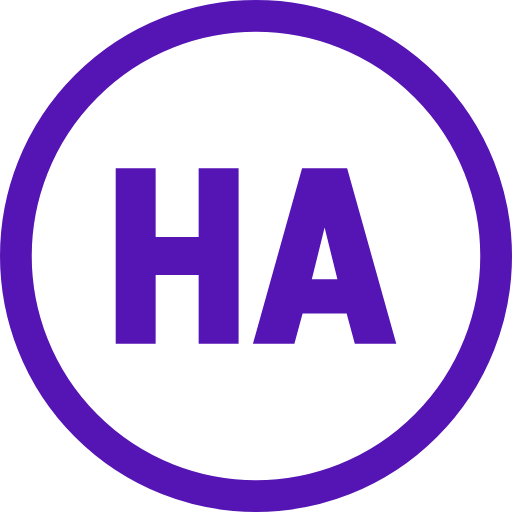
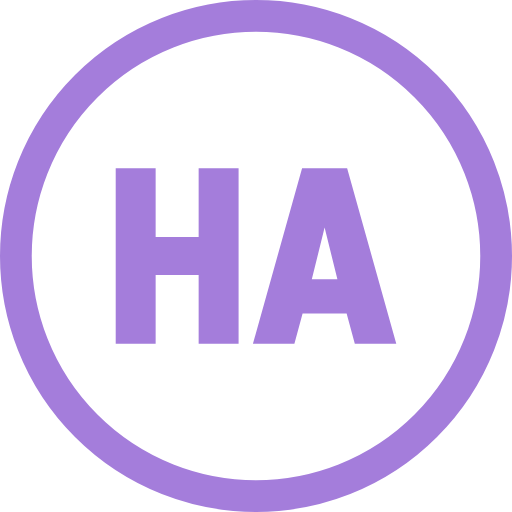
Add Horizon Advertising email signature with lavender HA roundel
Claude-Session: https://claude.ai/code/session_01MUnwnrXqHazbNMzGevKJpz

diff --git a/brand/email-signature/horizon-advertising.html b/brand/email-signature/horizon-advertising.html
@@ -1,0 +1,44 @@
+<!DOCTYPE html>
+<html lang="en">
+<head>
+<meta charset="utf-8">
+<title>Horizon Advertising email signature</title>
+</head>
+<body style="margin:0;padding:24px;background:#ffffff;">
+<!-- Horizon Advertising email signature. Open in a browser, select everything (Ctrl/Cmd+A), copy, and paste into your mail client's signature settings. -->
+<table cellpadding="0" cellspacing="0" border="0" role="presentation" style="border-collapse:collapse;font-family:Arial,Helvetica,sans-serif;color:#1A1A1A;max-width:560px;">
+  <tr>
+    <td valign="middle" style="padding:0 20px 0 0;width:200px;border-right:2px solid #A47DDB;">
+      <a href="https://horizonadvertising.co.uk" style="text-decoration:none;"><img src="http://217.154.34.205/brand/horizon-advertising-email-logo.png" width="200" height="100" alt="Horizon Advertising" style="display:block;border:0;width:200px;height:100px;"></a>
+    </td>
+    <td valign="middle" style="padding:0 0 0 20px;">
+      <p style="margin:0;font-size:17px;line-height:22px;font-weight:bold;color:#1A1A1A;">Charlie Livsey</p>
+      <p style="margin:4px 0 10px;font-size:12px;line-height:18px;">
+        <span style="color:#A47DDB;font-weight:bold;">Executive Director</span> &nbsp;<span style="color:#4A4A4A;">Horizon Advertising Limited</span>
+      </p>
+      <p style="margin:0;font-size:12px;line-height:19px;color:#4A4A4A;">
+        <span style="color:#1A1A1A;font-weight:bold;">E</span>&nbsp; <a href="mailto:charlie.livsey@horizonadvertising.co.uk" style="color:#4A4A4A;text-decoration:none;">charlie.livsey@horizonadvertising.co.uk</a><br>
+        <span style="color:#1A1A1A;font-weight:bold;">W</span>&nbsp; <a href="https://horizonadvertising.co.uk" style="color:#4A4A4A;text-decoration:none;">horizonadvertising.co.uk</a>
+      </p>
+    </td>
+  </tr>
+  <tr>
+    <td colspan="2" style="padding:14px 0 0;">
+      <table cellpadding="0" cellspacing="0" border="0" role="presentation" width="100%" style="border-collapse:collapse;">
+        <tr><td height="3" bgcolor="#A47DDB" style="font-size:0;line-height:0;">&nbsp;</td></tr>
+      </table>
+    </td>
+  </tr>
+  <tr>
+    <td colspan="2" style="padding:10px 0 0;font-size:11px;line-height:18px;color:#1A1A1A;">
+      A <strong>HN Group</strong> company
+    </td>
+  </tr>
+  <tr>
+    <td colspan="2" style="padding:12px 0 0;font-size:10px;line-height:14px;color:#9A9A9A;">
+      This email and any attachments are confidential and intended only for the named recipient. If you have received it in error, please tell the sender and delete it. Horizon Advertising is a subsidiary of HN Group Limited.
+    </td>
+  </tr>
+</table>
+</body>
+</html>

diff --git a/brand/tools/generate.py b/brand/tools/generate.py
@@ -17,6 +17,7 @@ FONT_BOLD = "/usr/share/fonts/truetype/liberation/LiberationSans-Bold.ttf"
 INDIGO = "#5514B4"
 WHITE = "#FFFFFF"
 INK = "#1A1A1A"
+LAVENDER = "#A47DDB"  # Horizon Advertising
 
 # --- Roundel (100 x 100 box), proportions taken from the BT roundel -------------
 RING = 6.2                # ring thickness, ~6% of the diameter
@@ -41,11 +42,11 @@ GLYPHS = {
 }
 
 ROUNDEL_BRANDS = {
-    # slug: (initials, line 1, line 2)
-    "horizon-advertising": ("HA", "Horizon", "Advertising"),
-    "horizon-development": ("HD", "Horizon", "Development"),
-    "horizon-media-group": ("HM", "Horizon", "Media Group"),
-    "horizon-holding-co":  ("HH", "Horizon", "Holding Co"),
+    # slug: (initials, line 1, line 2, colour)
+    "horizon-advertising": ("HA", "Horizon", "Advertising", LAVENDER),
+    "horizon-development": ("HD", "Horizon", "Development", INDIGO),
+    "horizon-media-group": ("HM", "Horizon", "Media Group", INDIGO),
+    "horizon-holding-co":  ("HH", "Horizon", "Holding Co", INDIGO),
 }
 
 # --- Wordmarks with the stepped colour line -------------------------------------
@@ -146,12 +147,12 @@ def main():
             for ink, suffix in ((INK, ""), (WHITE, "-white")):
                 w, h, body = wordmark(lines, ink)
                 files[f"{slug}-{name}{suffix}.svg"] = svg(w, h, body, title)
-    for slug, (ini, l1, l2) in ROUNDEL_BRANDS.items():
+    for slug, (ini, l1, l2, color) in ROUNDEL_BRANDS.items():
         title = f"{l1} {l2}"
-        files[f"{slug}-roundel.svg"] = svg(100, 100, roundel(ini, INDIGO), title)
+        files[f"{slug}-roundel.svg"] = svg(100, 100, roundel(ini, color), title)
         files[f"{slug}-roundel-white.svg"] = svg(100, 100, roundel(ini, WHITE), title)
-        files[f"{slug}-app-icon.svg"] = svg(100, 100, f'<g transform="translate(15 15) scale(0.7)">\n  {roundel(ini, WHITE)}\n  </g>', title, bg=INDIGO)
-        w, b = roundel_lockup(ini, l1, l2, INDIGO)
+        files[f"{slug}-app-icon.svg"] = svg(100, 100, f'<g transform="translate(15 15) scale(0.7)">\n  {roundel(ini, WHITE)}\n  </g>', title, bg=color)
+        w, b = roundel_lockup(ini, l1, l2, color)
         files[f"{slug}-logo.svg"] = svg(w, 100, b, title)
         w, b = roundel_lockup(ini, l1, l2, WHITE)
         files[f"{slug}-logo-white.svg"] = svg(w, 100, b, title)

diff --git a/brand/README.md b/brand/README.md
@@ -14,7 +14,7 @@ The `-white` versions have white text for dark backgrounds, and the last bar tur
 
 ## Other divisions: roundels
 
-These follow the BT roundel: a thick indigo (`#5514B4`) ring with heavy initials inside.
+These follow the BT roundel: a thick ring with heavy initials inside. Horizon Advertising is lavender (`#A47DDB`); the others are indigo (`#5514B4`).
 
 | Division | Initials |
 |---|---|
@@ -33,6 +33,7 @@ The SVGs use outlined paths, so they don't depend on installed fonts. To regener
 
 ## Email signatures
 
+- `email-signature/horizon-advertising.html` – Executive Director, Horizon Advertising Limited (horizonadvertising.co.uk)
 - `email-signature/horizon-network.html` – President, Horizon Network Limited (horizon-network.co.uk)
 
 To install one, open it in a browser, select all, copy, and paste into Gmail or Outlook signature settings.
